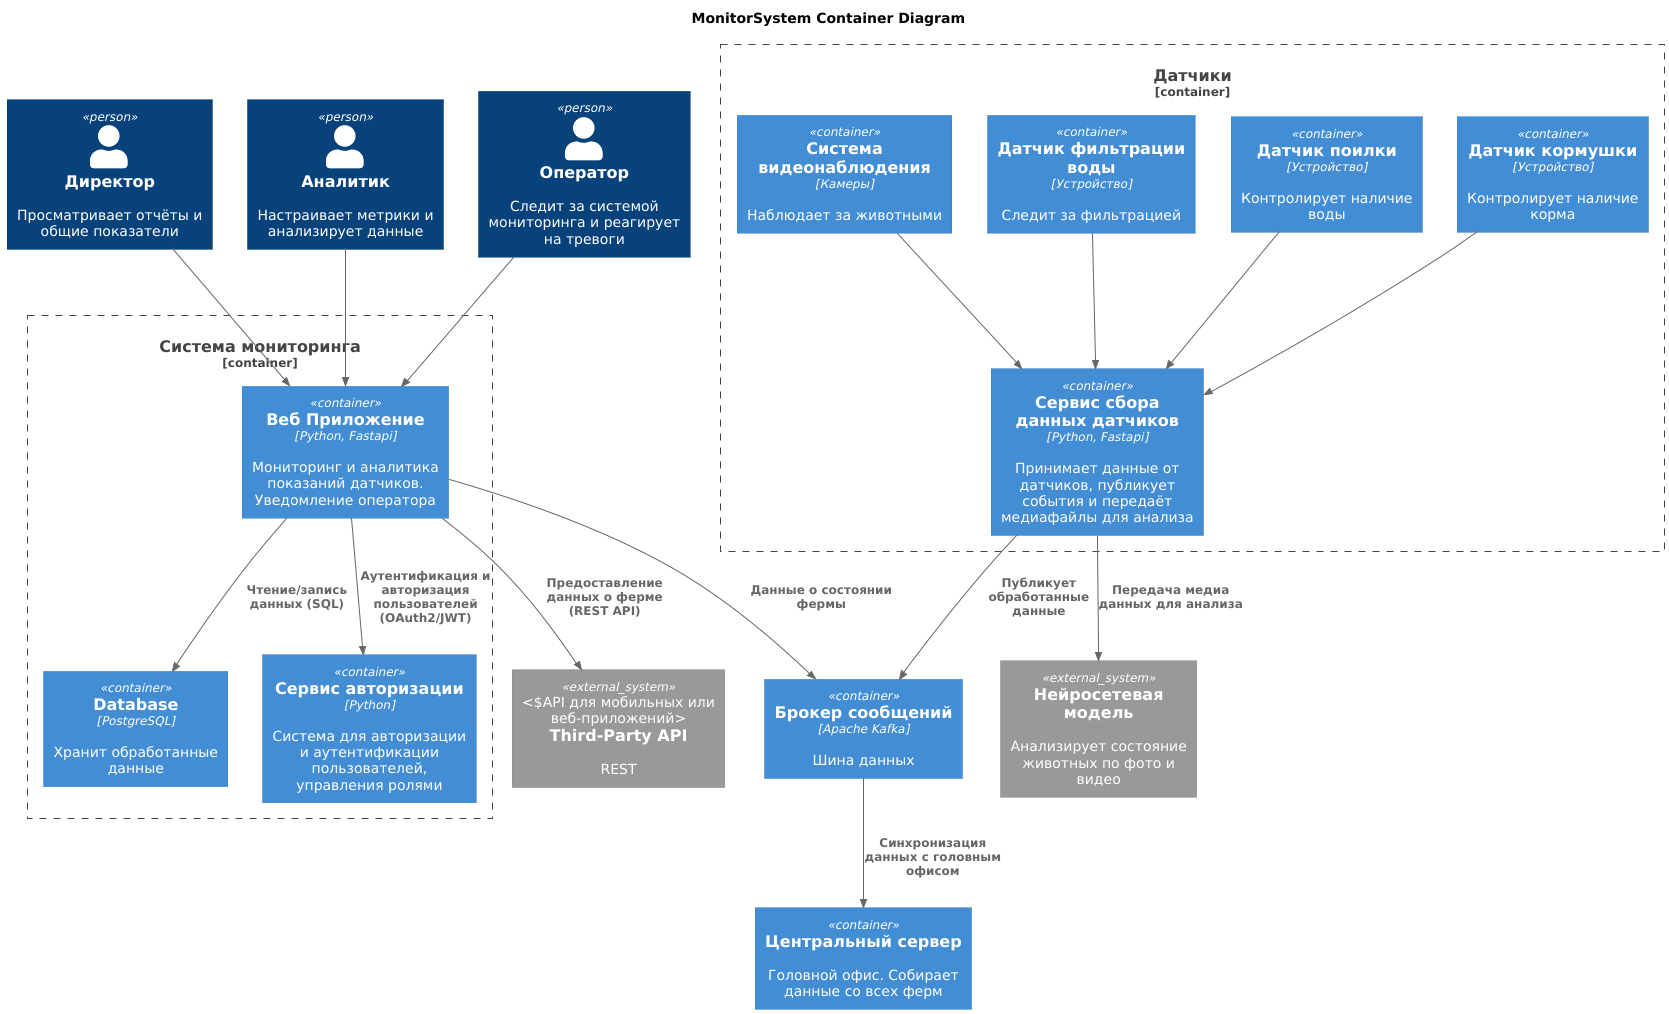
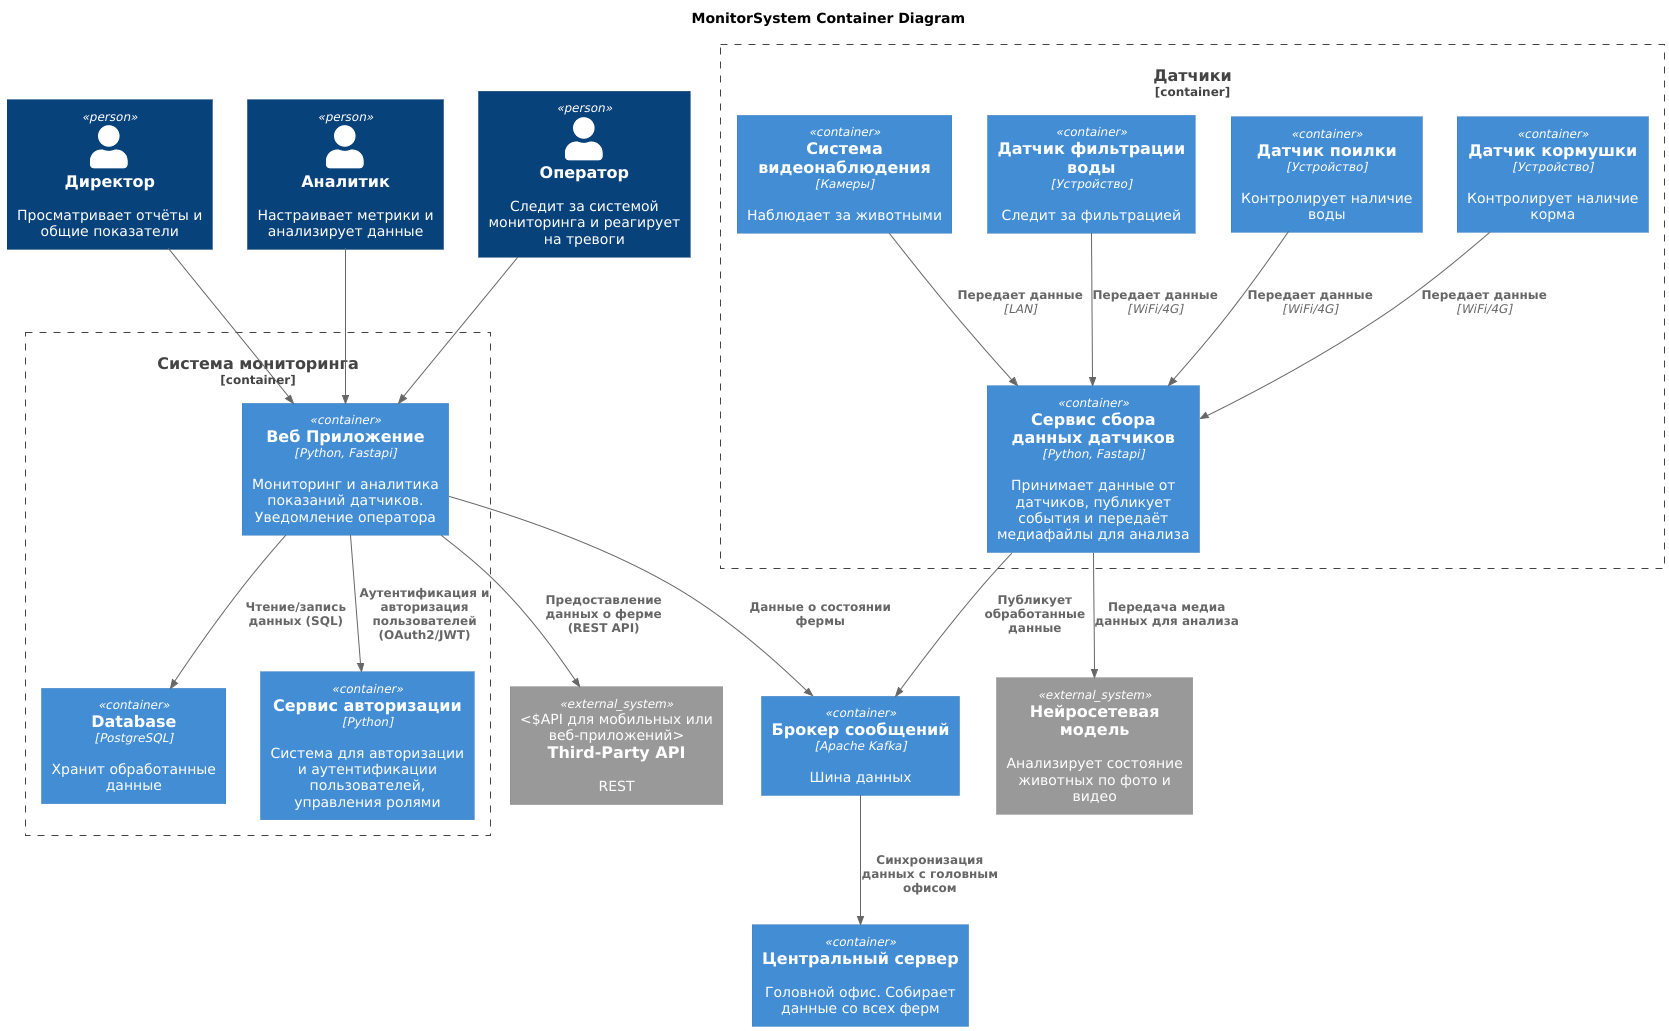
причесывание проекта

diff --git a/Task4/_ADR.md b/Task4/_ADR.md
@@ -69,6 +69,8 @@
 Принято решение использовать IoT-шлюз как основной вариант для сбора данных с датчиков.
 Шлюз агрегирует данные с помощью Zigbee/RTSP, передает их в SensorTracker, а далее в Kafka и в Систему Мониторинга.
 
+![img_1.png](img_1.png)
+
 ### Аргументация
 
 | Критерий           | Обоснование                                                                                           |
@@ -103,6 +105,7 @@
 |-------------------------------------------------|--------------------------------------------------|-----------------------------------------------|----------------------------------------------------------|
 | **Прямое подключение датчиков к SensorTracker** | Простая архитектура, меньше компонентов, дешевле | Ненадёжная связь, высокая нагрузка на датчики | Применим только для ферм со стабильным сигналом Wi-Fi/4G |
 
+![img.png](img.png)
 ---
 
 ### 5. Риски

diff --git a/Task2/Шаблон_ADR.md b/Task2/Шаблон_ADR.md
@@ -49,7 +49,7 @@
 
 ### <a name="_qmphm5d6rvi3"></a>**Решение**
 
-![img_1.png](img_1.png)
+![img.png](img.png)
 
 Также опишите, какой логикой вы руководствовались в ходе принятия решений и выбора технологий. Не забывайте, что
 необходимо учесть все функциональные и нефункциональные требования.
@@ -86,7 +86,7 @@
 
 Альтернативный вариант предусматривает передачу данных датчиков по сети Wi-Fi или 4G
 
-![img_2.png](img_2.png)
+![img_1.png](img_1.png)
 
 **Недостатки, ограничения, риски**
 
